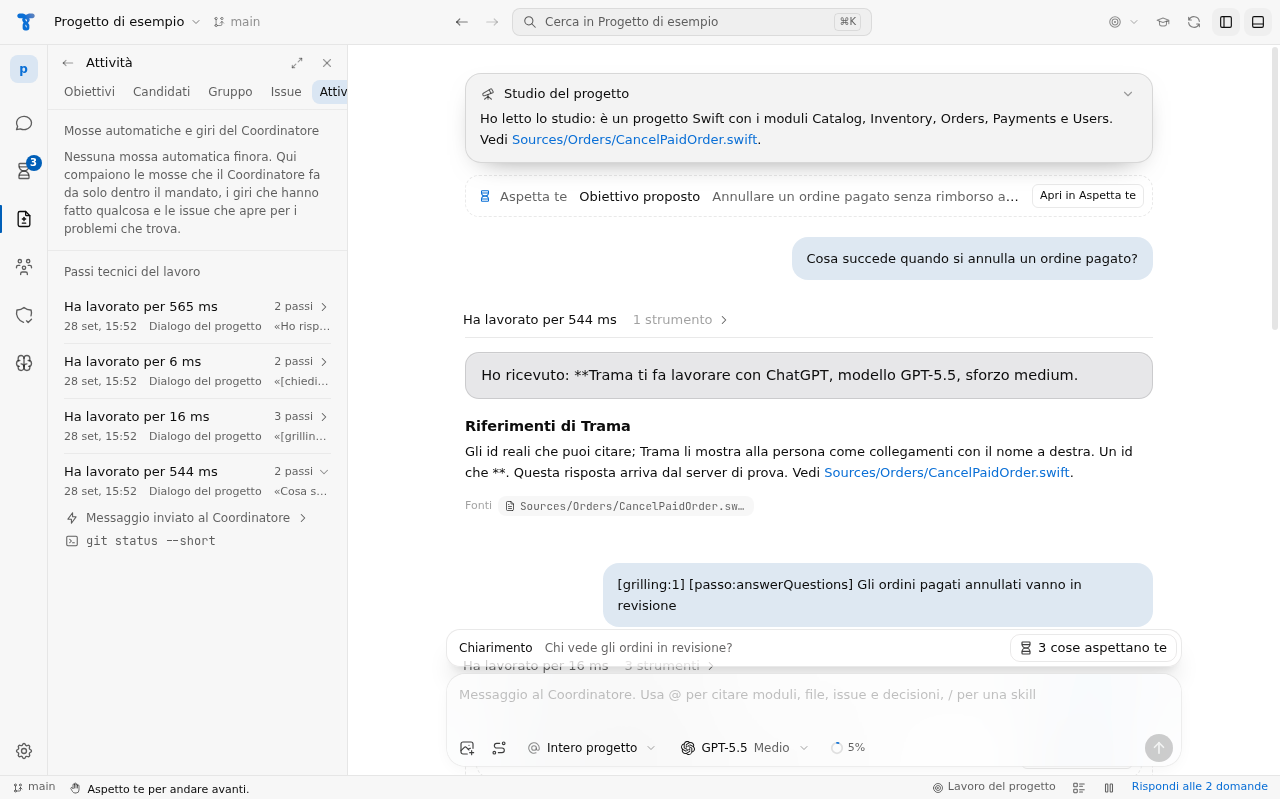
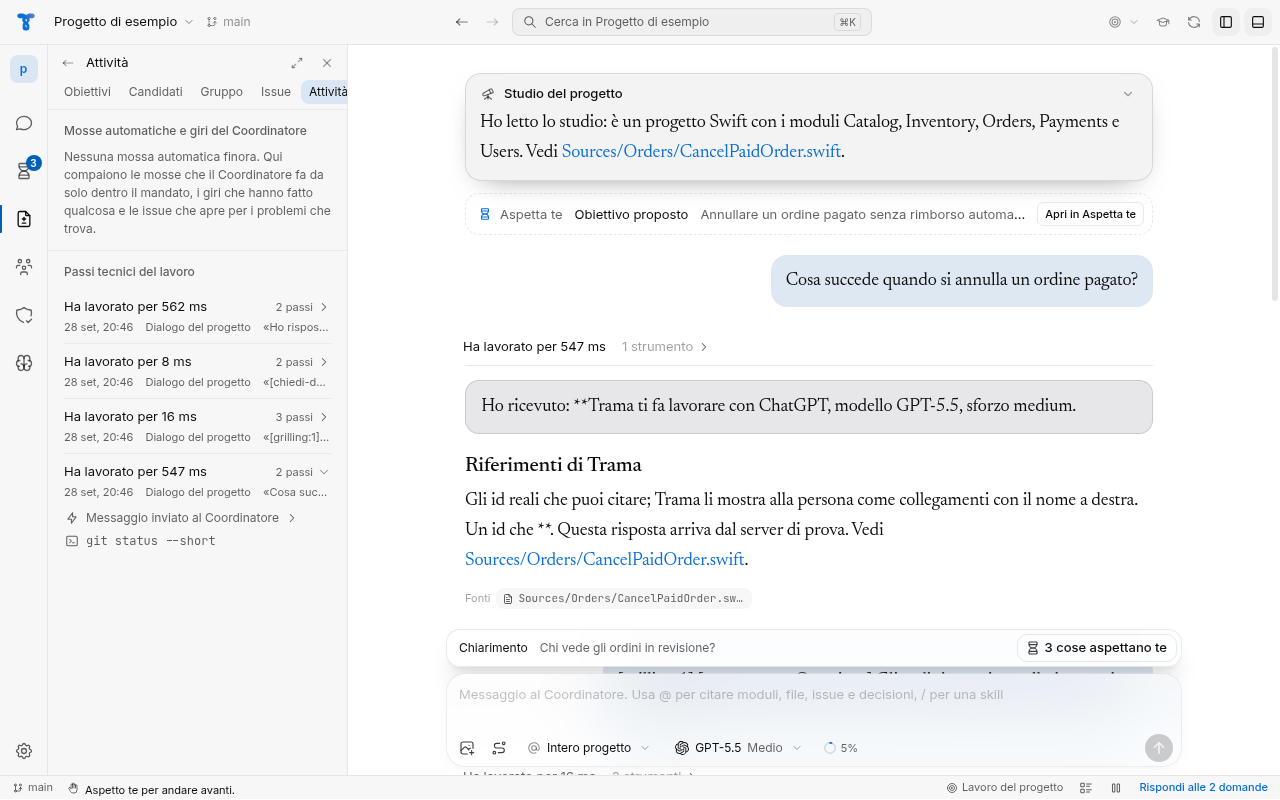
docs: refresh the Activity panel screenshots on the latest main
Claude-Session: https://claude.ai/code/session_01LGoQCgnotNyf1Qs81MjRTw

diff --git a/docs/verifiche/b08-pannello-in-basso-2026-09-28.md b/docs/verifiche/b08-pannello-in-basso-2026-09-28.md
@@ -1,12 +1,12 @@
 # B08: Attività nel pannello in basso (28 settembre 2026)
 
-Verifiche eseguite su Linux, in un container senza Codex reale e senza `gh`, sul branch `feature/issue-337-b08-bottom-panel-bmwnr9`, che parte da B01 (`feature/issue-330-window-shell-z76tty`, PR #350) con `origin/main` a `c329d5b` unito. Le schermate vengono da `scripts/ui-check.mjs` con l'app-server Codex di prova. Le schermate "prima" vengono dallo stesso ui-check eseguito sul branch di B01, fermato dopo l'apertura dei passi di un turno.
+Verifiche eseguite su Linux, in un container senza Codex reale e senza `gh`, sul branch `feature/issue-337-b08-bottom-panel-bmwnr9` con `origin/main` a `9f31105` unito (B01, PR #350, è su main). Le schermate vengono da `scripts/ui-check.mjs` con l'app-server Codex di prova. Le schermate "prima" vengono dallo stesso ui-check eseguito su `main` a `9f31105`, fermato dopo l'apertura dei passi di un turno.
 
 ## Cosa è stato provato
 
 - Test di unità: `renderer/lib/activityPanel.test.ts` (elenco unico in ordine di tempo con mosse, giri, problemi, passi fatti per la persona, unioni e turni; turni senza passi esclusi; filtri per chi e per tipo; riepilogo con cosa succede ora e l'ultima cosa andata male; la riga chiesta dalla chat resta visibile oltre la prima pagina), `renderer/lib/workbench.test.ts` (Attività non è più una scheda della barra laterale; altezza del pannello 200 px, 260 px con la finestra larga, e altezza massima che lascia l'editor sopra).
 - ui-check: con il pannello aperto a 1280x800 la conversazione resta alta 384 px (sopra i 380 chiesti); il pannello sta sotto l'editor, largo quanto l'editor, e non copre la barra di stato; 200 px a 1280x800 e 260 px a 1680x1050; niente scorrimento orizzontale; temi Codex e Claude in chiaro e in scuro, finestra stretta e larga. Le righe stanno su una riga, gli id non compaiono nel testo, "Mostra nella chat" è un'icona e porta in vista la riga della chat. Il filtro per tipo tiene solo i turni di lavoro; il filtro per persona sceglie il Coordinatore. Il separatore orizzontale trascinato in basso porta il pannello a 160 px, freccia su lo alza di 16 px, trascinato in alto si ferma all'altezza massima con la conversazione ancora a 380 px o più, Home lo riporta a 200 px. L'interruttore della barra del titolo chiude e apre il pannello, la X lo chiude, l'icona Attività della barra di stato lo apre.
-- Passi spostati nel pannello: `04-work-expanded`, `15b-activity`, `15b1-activity-step-correct` (Correggi, Annulla e Invia la correzione come prima), `18a-specialist-stopped`, `18a4-activity-tool-errors` (gli strumenti non riusciti stanno nel dettaglio della riga), `24c`/`24d`, `27a-found-problem-issue`, `28d-reopened-turn-resumed`, `29b-activity-steps`, `30a-ticket-partial`, `30b-ticket-failed`, `30a-merge-activity`, `30e-merge-activity-person`. Il backlog dei problemi trovati (`27c-found-problem-local-backlog`) si controlla nel filtro "Nel backlog" di Lavoro, Issue.
+- Passi spostati nel pannello: `04-work-expanded`, `15b-activity`, `15b1-activity-step-correct` (Correggi, Annulla e Invia la correzione come prima), `18a-specialist-stopped`, `18a4-activity-tool-errors` (gli strumenti non riusciti stanno nel dettaglio della riga), `24c`/`24d`, `27a-found-problem-issue`, `28d-reopened-turn-resumed`, `29b-activity-steps`, `30a-ticket-partial`, `30b-ticket-failed`, `30a-merge-activity`, `30e-merge-activity-person`. Il backlog dei problemi trovati (`27c-found-problem-local-backlog`) si controlla nel filtro "Nel backlog" di Lavoro, Issue; il collegamento "backlog di Trama" di un rilievo dell'Esame approfondito (F04) apre lo stesso filtro. Il controllo di #397 sugli id grezzi in Attività passa nel pannello.
 
 ## Non verificato
 
@@ -15,7 +15,7 @@ Verifiche eseguite su Linux, in un container senza Codex reale e senza `gh`, sul
 
 ## Schermate
 
-Prima: Attività come scheda di Lavoro nella barra laterale (B01), 1280x800 e 1680x1050.
+Prima: Attività come scheda di Lavoro nella barra laterale (main con B01), 1280x800 e 1680x1050.
 
 ![Prima, Codex chiaro, 1280x800](b08-pannello-in-basso/prima-1280x800-codex-chiaro.png)
 ![Prima, Codex scuro, 1280x800](b08-pannello-in-basso/prima-1280x800-codex-scuro.png)
